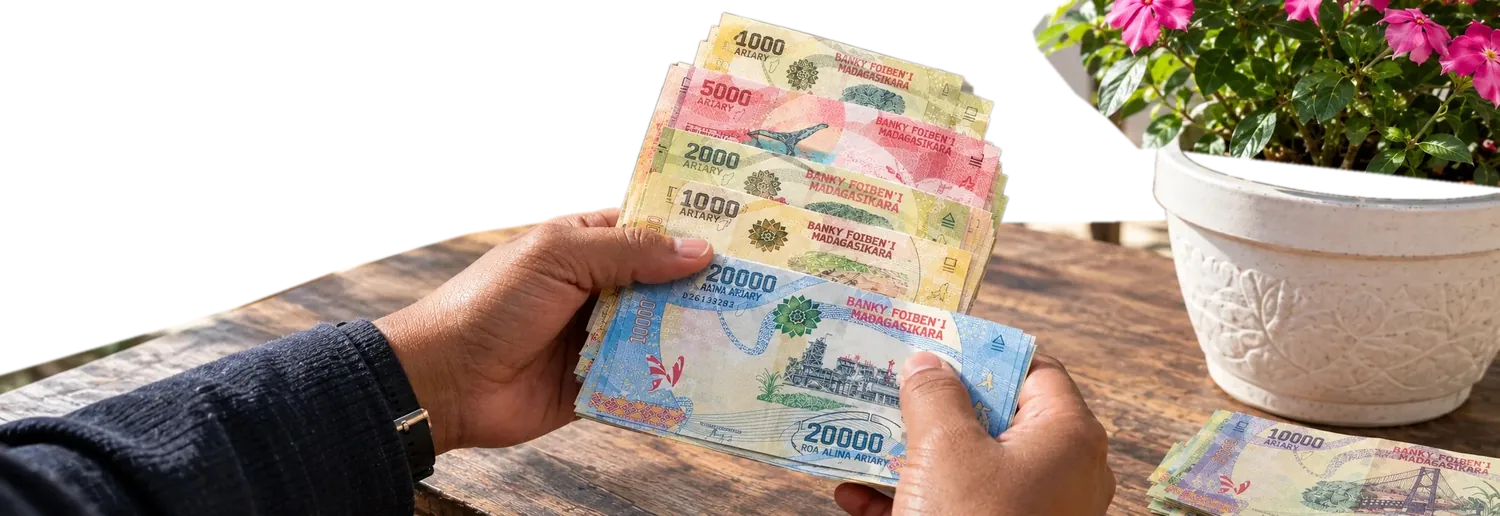
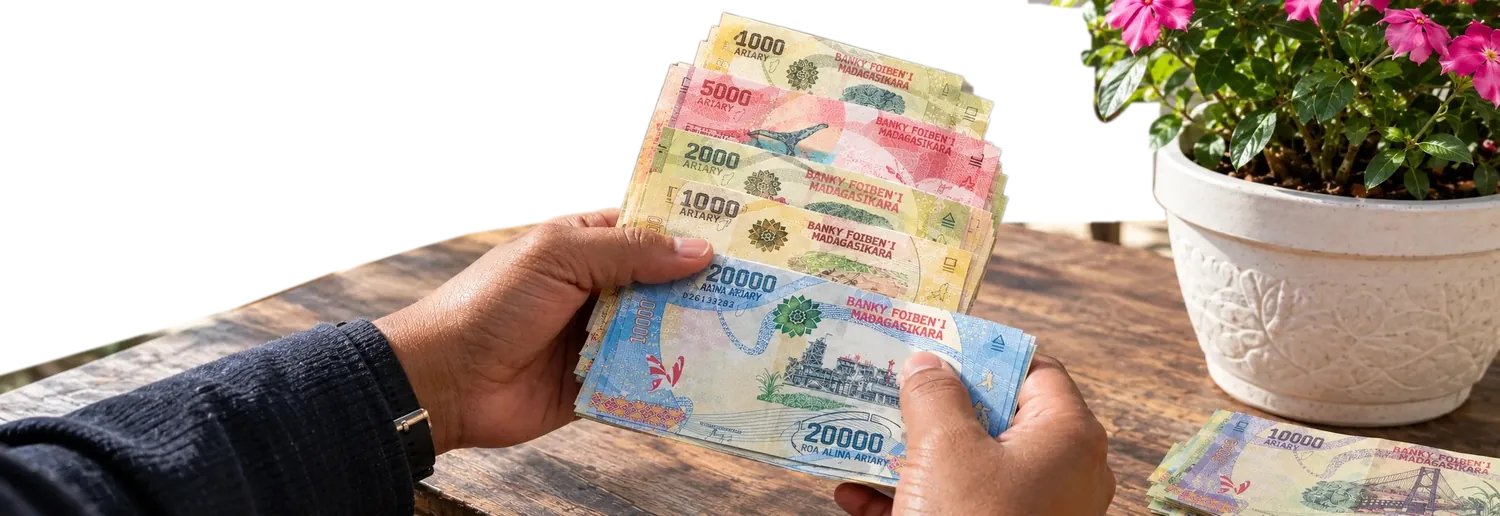
fix(sections): les scènes sont nettes jusqu'au bord, sans fondu
Le fondu des bords laissait deviner un cadre autour des photos : il est
retiré, la page est le seul fond de la scène.
- ventes : le mur visible derrière les ampoules du lustre, sur le bord
  droit et le long du pilier est retiré ;
- argent : la touffe de fleurs suit le contour des feuilles, et la terre
  du pot est comblée ;
- fournisseurs : la marge ajoutée au-dessus du camion pour le fondu
  n'a plus lieu d'être.

Changed region(s): [[0.6747, 0.0, 0.7973, 0.2791], [0.7667, 0.2791, 1.0, 0.4031]]

diff --git a/src/features/dashboard-v2/tantana.css b/src/features/dashboard-v2/tantana.css
@@ -4552,7 +4552,8 @@
 }
 
 /* La bannière à scène détourée : le titre à gauche, la scène posée à
-   droite sur la page même — pas de cadre, pas de voile, pas de fondu.
+   droite sur la page même — pas de cadre, pas de voile, pas de fondu :
+   la scène est nette jusqu'au bord.
    Son pied (le bas du comptoir) repose sur le haut des cartes. */
 .tn .banner.scene {
   display: flex;
@@ -4578,14 +4579,6 @@
   width: min(62%, calc(var(--h) * var(--ratio, 1.5)));
   height: auto;
   user-select: none;
-  /* Les objets coupés par le cadre de la photo s'effacent sur le bord,
-     comme ceux de l'image des opérations. */
-  --fondu-x: linear-gradient(to right, transparent, #000 4%, #000 96%, transparent);
-  --fondu-y: linear-gradient(to bottom, transparent, #000 5%, #000 92%, transparent);
-  -webkit-mask-image: var(--fondu-x), var(--fondu-y);
-  -webkit-mask-composite: source-in;
-  mask-image: var(--fondu-x), var(--fondu-y);
-  mask-composite: intersect;
 }
 /* Sur téléphone, la scène passe sous le titre, sur toute la largeur. */
 @media (max-width: 640px) {

diff --git a/src/features/dashboard-v2/DashboardV2Page.tsx b/src/features/dashboard-v2/DashboardV2Page.tsx
@@ -99,7 +99,7 @@ const SCENE_FOURNISSEURS: Scene = {
   src: "/illustrations/fournisseurs.webp",
   alt: "Un camion de livraison sur une route bordée d'arbres.",
   largeur: 1400,
-  hauteur: 762,
+  hauteur: 712,
 };
 
 /** Une seule liste vide : une nouvelle à chaque rendu relancerait tous les calculs. */
